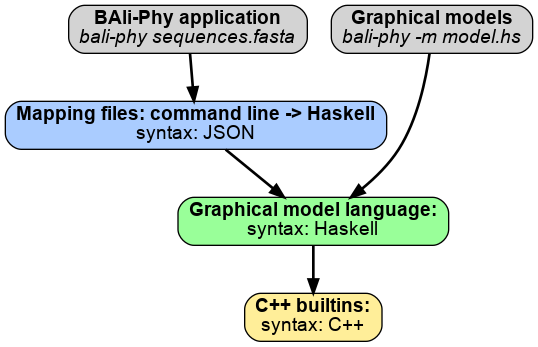
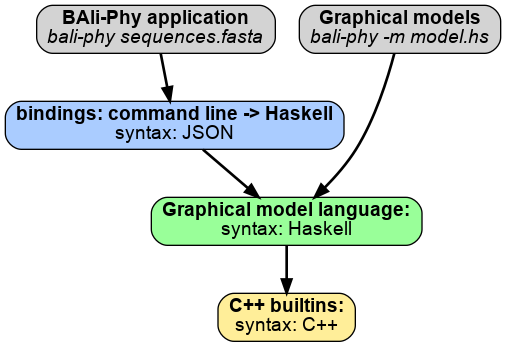
Add intro code layout image.
Former-commit-id: 2a452a425d4c526ba2753fc5bf06acc016e72efe

Changed region(s): [[0.0, 0.0, 1.0, 1.0], [0.9486, 0.0, 0.9783, 0.0288], [0.8004, 0.6916, 0.83, 0.7205]]

diff --git a/developer/code.html b/developer/code.html
@@ -19,11 +19,12 @@
 </header>
 <nav id="TOC">
 <ul>
-<li><a href="#repo-overview">Repo overview</a></li>
+<li><a href="#source-code">Source Code</a></li>
+<li><a href="#documentation-and-examples">Documentation and examples</a></li>
 </ul>
 </nav>
-<h2 id="repo-overview">Repo overview</h2>
-<p>These directories contain code that affects how <code>bali-phy</code> runs:</p>
+<h2 id="source-code">Source Code</h2>
+<p>These directories contain code that affects how <code>bali-phy</code> runs: <img src="code-layout.png" alt="Code layout" /></p>
 <dl>
 <dt><a href="https://github.com/bredelings/BAli-Phy/blob/master/modules">modules/</a></dt>
 <dd>Haskell code
@@ -34,12 +35,12 @@
 <dt><a href="https://github.com/bredelings/BAli-Phy/blob/master/functions">functions/</a></dt>
 <dd>JSON definitions of functions for the command-line interface
 </dd>
+</dl>
+<h2 id="documentation-and-examples">Documentation and examples</h2>
+<dl>
 <dt><a href="https://github.com/bredelings/BAli-Phy/blob/master/help">help/</a></dt>
 <dd>Help files
 </dd>
-</dl>
-<p>These directories contain documentation and examples:</p>
-<dl>
 <dt><a href="https://github.com/bredelings/BAli-Phy/blob/master/doc/">doc/</a></dt>
 <dd>Documentation
 </dd>